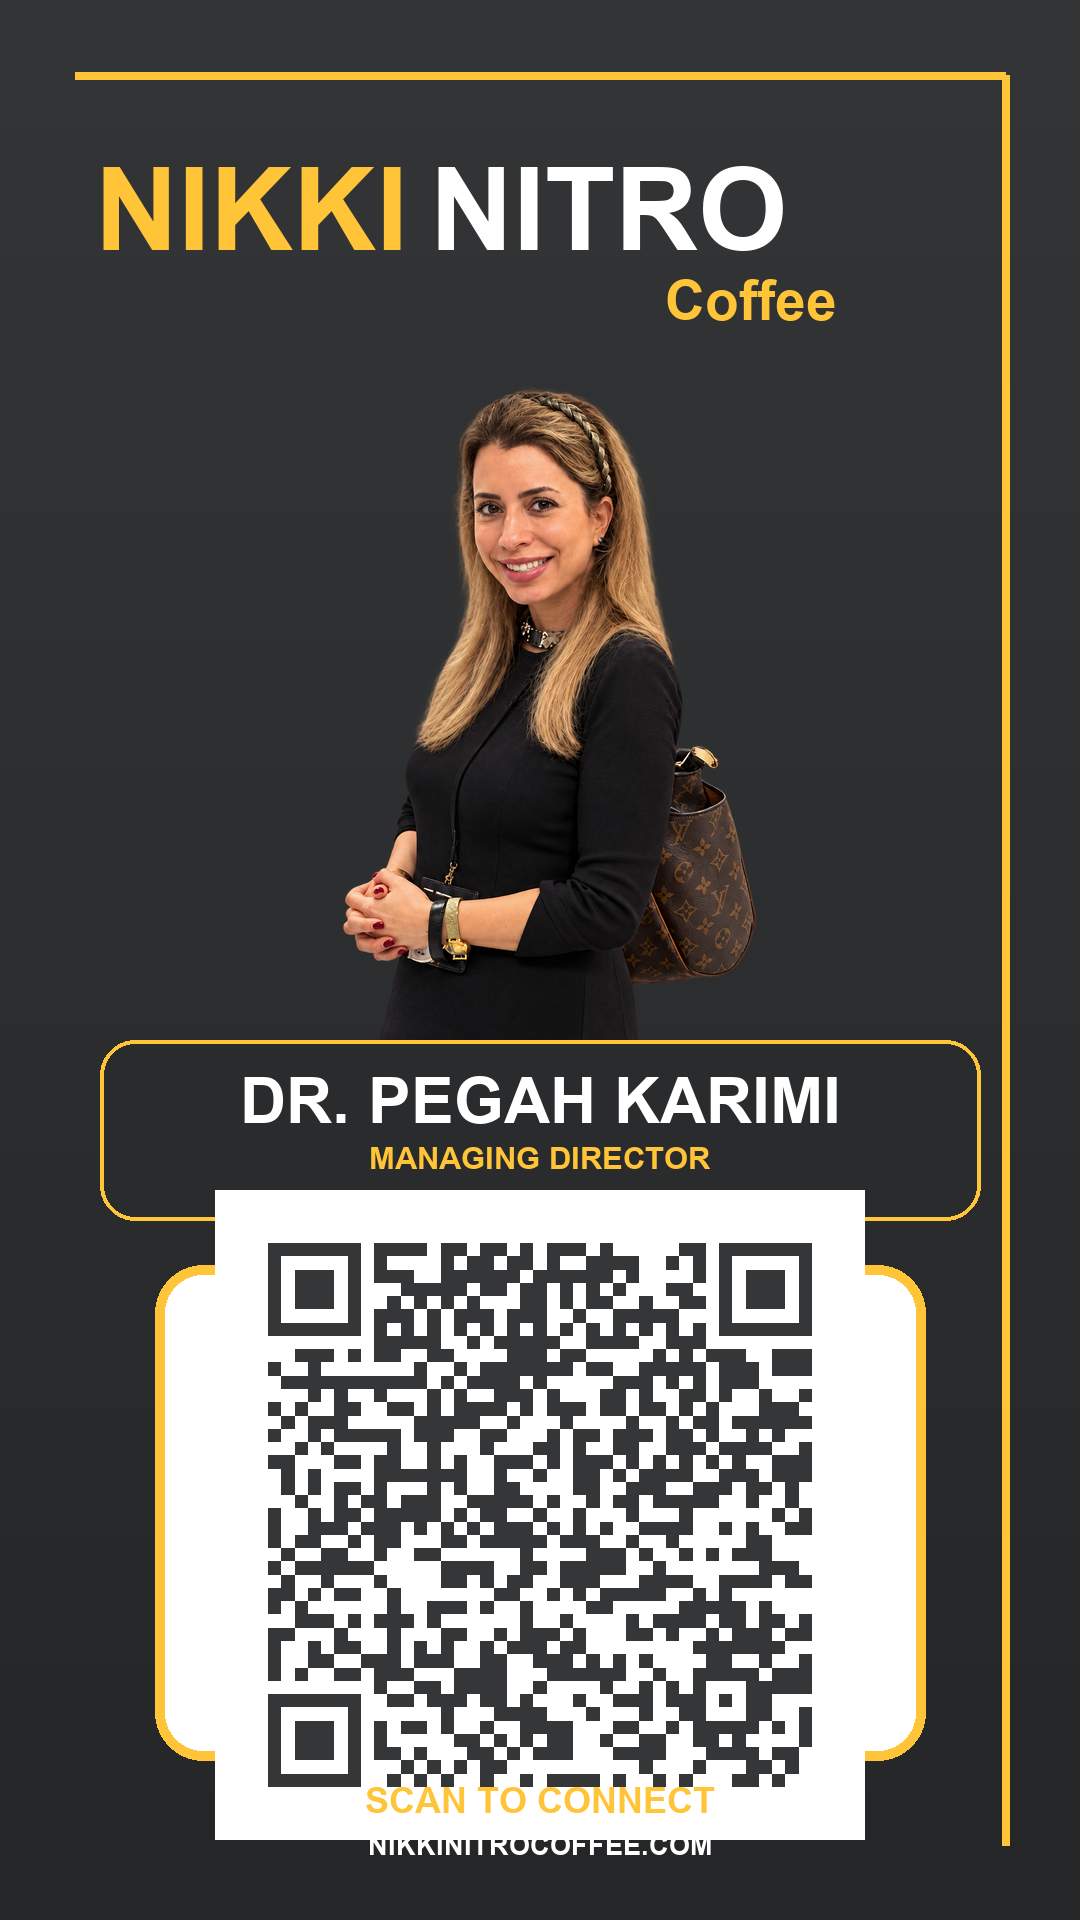
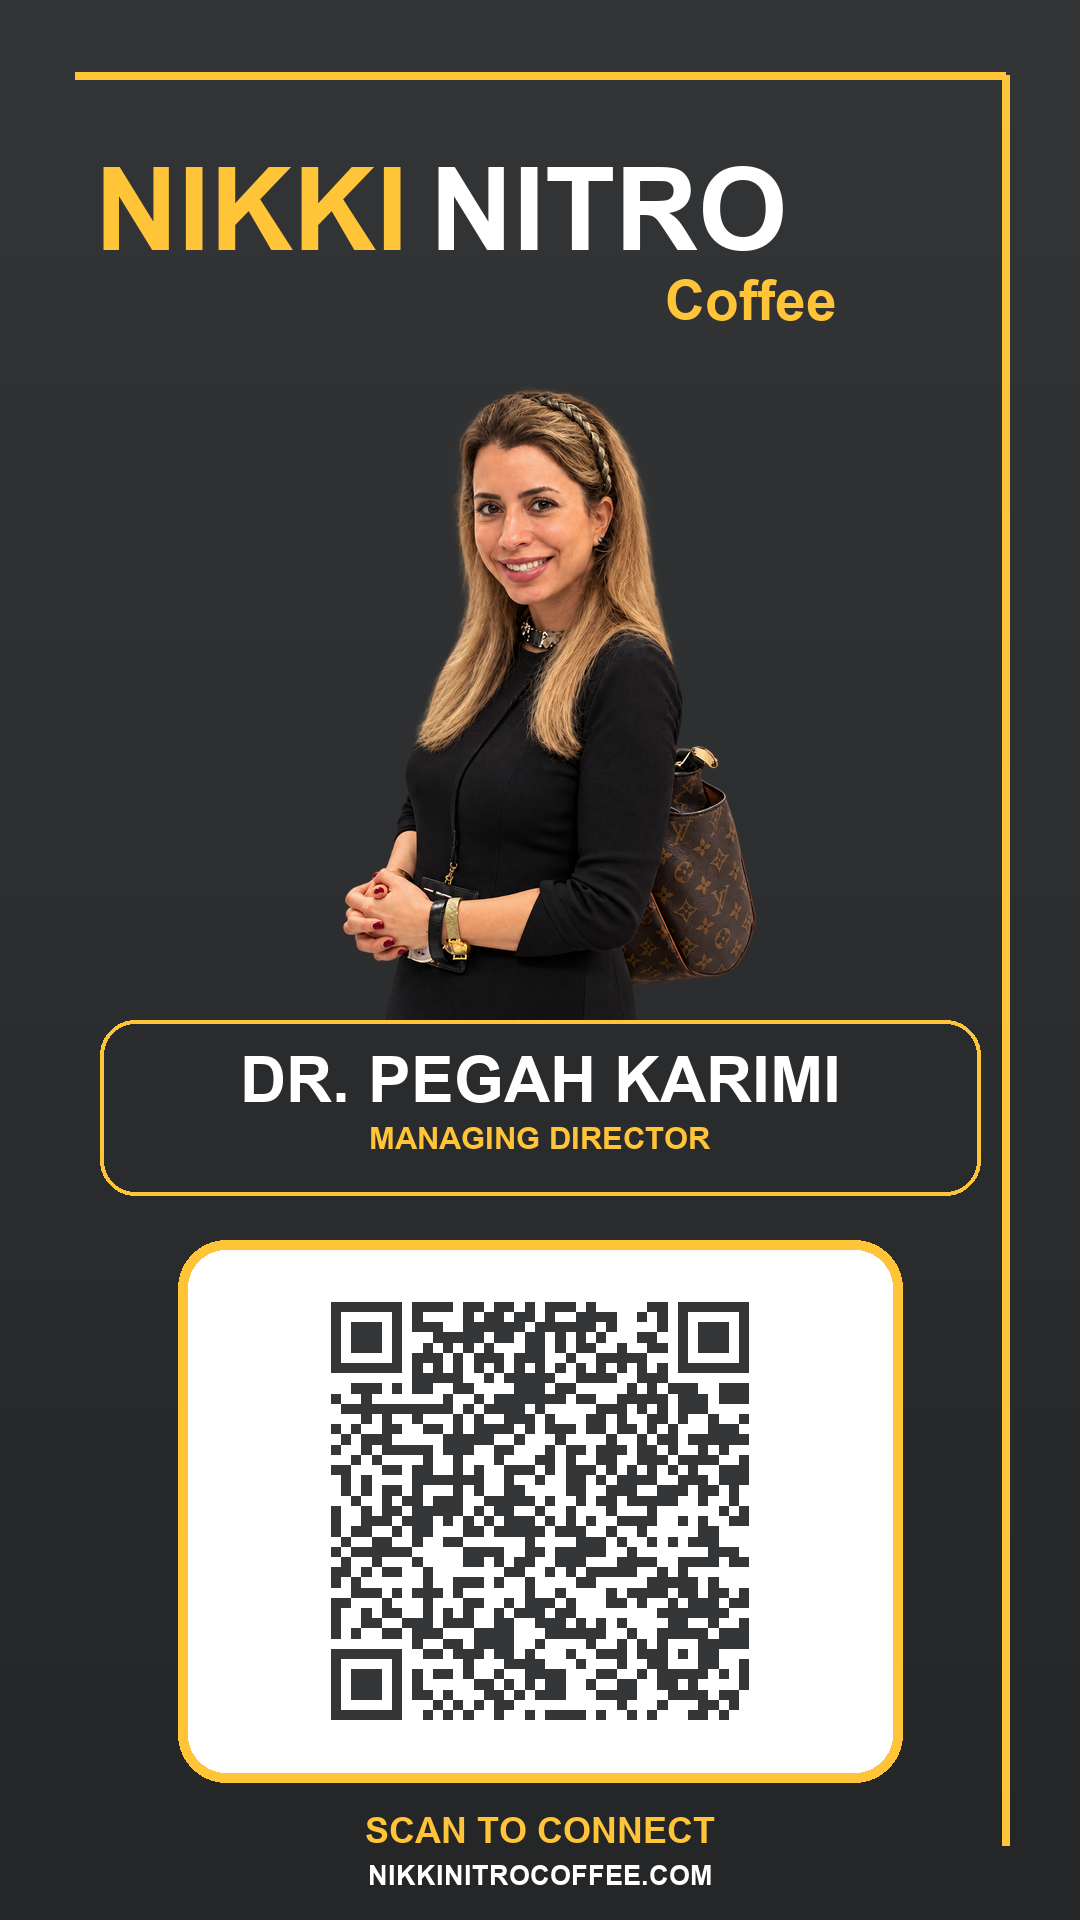
Fix phone QR card layout

Changed region(s): [[0.0917, 0.5312, 0.9167, 1.0], [0.8861, 0.5938, 0.9167, 0.625], [0.0917, 0.5938, 0.1222, 0.625]]

diff --git a/service-worker.js b/service-worker.js
@@ -1,4 +1,4 @@
-const CACHE="nikki-nitro-card-v1";
+const CACHE="nikki-nitro-card-v2";
 const ASSETS=["./","index.html","styles.css","app.js","manifest.webmanifest","assets/pegah-karimi-cutout.png","assets/card-qr.png","assets/phone-card.png","assets/icon-180.png","assets/icon-192.png","assets/icon-512.png"];
 self.addEventListener("install",event=>event.waitUntil(caches.open(CACHE).then(cache=>cache.addAll(ASSETS)).then(()=>self.skipWaiting())));
 self.addEventListener("activate",event=>event.waitUntil(caches.keys().then(keys=>Promise.all(keys.filter(key=>key!==CACHE).map(key=>caches.delete(key)))).then(()=>self.clients.claim())));

diff --git a/scripts/generate_assets.py b/scripts/generate_assets.py
@@ -24,7 +24,15 @@ for y in range(H):
 d.line((75,75,1005,75),fill=GOLD,width=8);d.line((1005,75,1005,1845),fill=GOLD,width=8)
 d.text((95,145),"NIKKI",font=font(115,True),fill=GOLD);d.text((430,145),"NITRO",font=font(115,True),fill=WHITE);d.text((665,270),"Coffee",font=font(55,True),fill=GOLD)
 portrait=Image.open(A/"pegah-karimi-cutout.png").convert("RGBA");portrait.thumbnail((720,760),Image.Resampling.LANCZOS);im.paste(portrait,((W-portrait.width)//2,370),portrait)
-d.rounded_rectangle((100,1040,980,1220),radius=35,fill="#292B2D",outline=GOLD,width=4);center(d,1065,"DR. PEGAH KARIMI",font(64,True),WHITE);center(d,1140,"MANAGING DIRECTOR",font(31,True),GOLD)
-d.rounded_rectangle((155,1265,925,1760),radius=48,fill=WHITE,outline=GOLD,width=10);q=Image.open(A/"card-qr.png").resize((650,650),Image.Resampling.NEAREST);im.paste(q,(215,1190))
-center(d,1780,"SCAN TO CONNECT",font(36,True),GOLD);center(d,1830,"NIKKINITROCOFFEE.COM",font(27,True),WHITE)
+d.rounded_rectangle((100,1020,980,1195),radius=35,fill="#292B2D",outline=GOLD,width=4)
+center(d,1044,"DR. PEGAH KARIMI",font(64,True),WHITE)
+center(d,1120,"MANAGING DIRECTOR",font(31,True),GOLD)
+
+# Keep the QR and all captions fully inside the 1080 x 1920 phone canvas.
+# The previous version let the code overlap the captions at the bottom.
+d.rounded_rectangle((178,1240,902,1782),radius=48,fill=WHITE,outline=GOLD,width=10)
+q=Image.open(A/"card-qr.png").resize((500,500),Image.Resampling.NEAREST)
+im.paste(q,(290,1261))
+center(d,1810,"SCAN TO CONNECT",font(36,True),GOLD)
+center(d,1860,"NIKKINITROCOFFEE.COM",font(27,True),WHITE)
 im.save(A/"phone-card.png",optimize=True)
